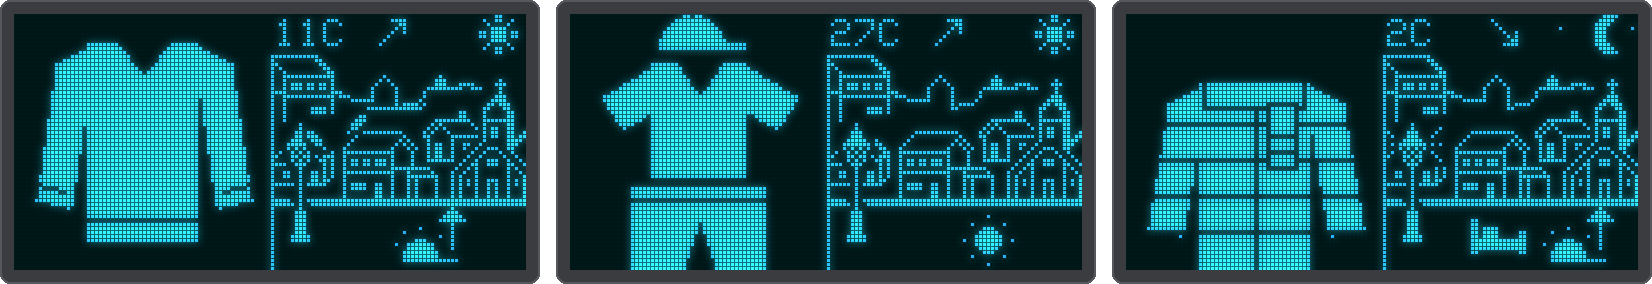
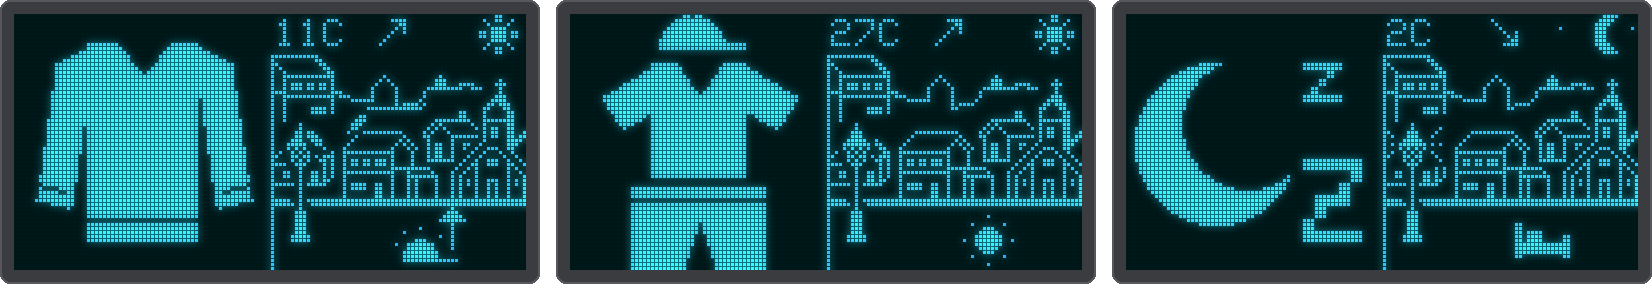
Kids village: what to wear right now, and sleeping at night
The village showed the outfit for the whole current part of the day (the
warmest of the afternoon, the coldest of the morning) next to the
temperature of now, so the picture and the number could disagree. It now
dresses for now: the current temperature, and the weather of this hour and
the next two, so rain on its way already gives the rain coat.

From 22:00 to 07:00 the left side shows a moon and a sleeping Z instead of
tomorrow morning's outfit, with a bed on the street. The clothes screen
still plans ahead per part of the day.

Claude-Session: https://claude.ai/code/session_01BgTn1WcpSUXFywgbLdTvzG

Changed region(s): [[0.6792, 0.1972, 0.8335, 0.9577], [0.8644, 0.7324, 0.9879, 0.9296]]

diff --git a/firmware/src/main.cpp b/firmware/src/main.cpp
@@ -464,16 +464,13 @@ static KidsCountdown kidsCountdownNow() {
 }
 
 /**
- * Kids screens: the next parts of the day (morning, afternoon, dinner and maybe the night; at most `max`, the
- * current one first) with their outlook. Returns how many.
+ * Kids screens: forecast hours from the current one on (at most 24), the current hour with the conditions of
+ * now, and their local hours. Returns how many.
  */
-static size_t kidsColumns(KidsColumn* cols, KidsPart* parts, size_t max, bool nightColumn) {
-    // Forecast hours from the current one on; the current hour uses what is measured now
+static size_t kidsHours(KidsHour* hours, int* localHours) {
     const HourSlice* slices = nullptr;
     time_t firstEpoch = 0;
     size_t n = getUpcomingHours(slices, firstEpoch);
-    KidsHour hours[24];
-    int localHours[24];
     size_t count = 0;
     for (; count < n && count < 24; count++) {
         const HourSlice& s = slices[count];
@@ -486,7 +483,17 @@ static size_t kidsColumns(KidsColumn* cols, KidsPart* parts, size_t max, bool ni
         WeatherData w = getCurrentWeather();
         hours[0] = KidsHour{ w.tempC, w.precipMm, w.gustKmh, w.code, state.isNight, true, lightOf(time(nullptr)) };
     }
+    return count;
+}
 
+/**
+ * Kids screens: the next parts of the day (morning, afternoon, dinner and maybe the night; at most `max`, the
+ * current one first) with their outlook. Returns how many.
+ */
+static size_t kidsColumns(KidsColumn* cols, KidsPart* parts, size_t max, bool nightColumn) {
+    KidsHour hours[24];
+    int localHours[24];
+    size_t count = kidsHours(hours, localHours);
     size_t np = kidsDayParts(localHours, count, parts, max, kidsDinnerHour, nightColumn);
     for (size_t i = 0; i < np; i++) {
         // One number per part, shown on the weather screen and the one the outfit goes by
@@ -512,17 +519,20 @@ void renderKids(bool weather) {
 }
 
 /**
- * Kids home screen: the outfit for now (the first column of the clothes screen) next to the village of the ride
- * screen, with its sun or moon, rain, snow, gusts and leaves
+ * Kids home screen: what to wear right now (at night: sleeping) next to the village of the ride screen, with
+ * its sun or moon, rain, snow, gusts and leaves
  */
 void renderKidsVillage() {
-    KidsPart part;
-    KidsColumn col = {};
-    bool any = kidsColumns(&col, &part, 1, false) > 0;   // the outfit to wear: never the night
+    KidsHour hours[24];
+    int localHours[24];
+    size_t count = kidsHours(hours, localHours);
+    KidsOutlook o = kidsNowOutlook(hours, count, kidsLimits);
+    KidsColumn col = { count ? partOfDay(localHours[0], kidsDinnerHour) : KIDS_PART_MORNING, o.valid, o.outfit,
+                       o.weather, o.light, kidsShownTemp((float)o.tempC) };
     WeatherData weather = getCurrentWeather();
     char tempStr[8];
     snprintf(tempStr, sizeof(tempStr), "%d%c", kidsShownTemp(weather.tempC), weatherUnits == "imperial" ? 'F' : 'C');
-    renderKidsVillageView(display, col, any, any && part.afterSleep, state.isNight, weather.condition,
+    renderKidsVillageView(display, col, count > 0, state.isNight, weather.condition,
                           weather.condition == WEATHER_RAIN ? 2 : weather.condition == WEATHER_SNOW ? 1 : 0,
                           (int)weather.windKmh, tempStr, weather.trend);
 }

diff --git a/firmware/src/display.cpp b/firmware/src/display.cpp
@@ -1099,14 +1099,15 @@ static void drawBed(Adafruit_SSD1306 &d, int bx, int by) {
     d.fillRect(bx + 3, by, 4, 3, SSD1306_WHITE);        // pillow
 }
 
-// The night column of the clothes screen: no outfit, the moon over a sleeping "z z"
-static void drawSleeping(Adafruit_SSD1306 &d, int cx) {
-    drawSmallMoon(d, cx - 4, 30, 10);
-    d.setTextSize(1);
-    d.setCursor(cx + 6, 22);
+// The night: no outfit, the moon next to a sleeping "z Z" (the clothes screen's column, or big: the village)
+static void drawSleeping(Adafruit_SSD1306 &d, int cx, bool big = false) {
+    int k = big ? 2 : 1;
+    drawSmallMoon(d, big ? cx - 10 : cx - 4, big ? 32 : 30, 10 * k);
+    d.setTextSize(k);
+    d.setCursor(cx + 6 * k, big ? 8 : 22);
     d.print('z');
-    d.setTextSize(2);
-    d.setCursor(cx + 9, 36);
+    d.setTextSize(k + 1);
+    d.setCursor(cx + 9 * k - (big ? 6 : 0), big ? 36 : 36);
     d.print('Z');
 }
 
@@ -1340,21 +1341,16 @@ void renderReportView(Adafruit_SSD1306 &d, const char (*lines)[REPORT_COLS + 1],
     d.cp437(false);
 }
 
-void renderKidsVillageView(Adafruit_SSD1306 &d, const KidsColumn &now, bool hasOutfit, bool afterSleep, bool isNight,
+void renderKidsVillageView(Adafruit_SSD1306 &d, const KidsColumn &now, bool hasOutfit, bool isNight,
                            int weatherCondition, int intensity, int windSpeed, const char *tempStr, char trendArrow) {
     d.clearDisplay();
-    if (hasOutfit && now.valid) drawOutfit(d, 4, now.outfit);   // the outfits are 56x64: the whole left half
+    if (hasOutfit && now.part == KIDS_PART_NIGHT) drawSleeping(d, 32, true);   // bedtime: nothing to wear
+    else if (hasOutfit && now.valid) drawOutfit(d, 4, now.outfit);   // the outfits are 56x64: the whole left half
     d.drawLine(64, 0, 64, 63, SSD1306_WHITE);
     renderSkylineCard(d, isNight, weatherCondition, intensity, windSpeed, tempStr, trendArrow);
-    // On the street, right of the lamp: the part of the day the outfit is for, after a bed when a night
-    // comes first (in the evening it is tomorrow morning's outfit)
+    // On the street, right of the lamp: the part of the day it is now (the night: a bed)
     if (!hasOutfit) return;
-    if (afterSleep) {
-        drawBed(d, 86, 53);
-        drawPartSymbol(d, 113, now.part, 56);
-    } else {
-        drawPartSymbol(d, 104, now.part, 56);
-    }
+    drawPartSymbol(d, 104, now.part, 56);
 }
 
 bool renderReportBlowFrame(Adafruit_SSD1306 &d, const char (*lines)[REPORT_COLS + 1], size_t count, int frame,

diff --git a/tools/screenshots_host/screens.cpp b/tools/screenshots_host/screens.cpp
@@ -167,14 +167,20 @@ struct VillageScene {
 };
 
 static void village(const VillageScene& s, int windFrames) {
-    KidsPart part;
-    KidsColumn col = {};
-    bool any = columns(s.day, &col, &part, 1) > 0;
+    KidsHour hours[36];
+    for (size_t i = 0; i < s.day.count; i++) {
+        const Hour& x = s.day.hours[i];
+        int h = (s.day.now + (int)i) % 24;
+        hours[i] = KidsHour{ x.t, x.rainMm, x.gust, x.code, h < s.day.sunrise || h >= s.day.sunset, true, KIDS_LIGHT_DAY };
+    }
+    KidsOutlook o = kidsNowOutlook(hours, s.day.count, LIMITS);
+    KidsColumn col = { partOfDay(s.day.now, KIDS_DINNER_HOUR), o.valid, o.outfit, o.weather, o.light, o.tempC };
+    bool any = s.day.count > 0;
     initWindAnimation(WIND_AREA_RIDE);
     hostSeed(5);
     bool gusts = s.condition == WEATHER_WIND;
     for (int i = 0; i < windFrames; i++) updateWindAnimation(s.windKmh, gusts, true);
-    renderKidsVillageView(d, col, any, any && part.afterSleep, s.night, s.condition, 0, s.windKmh, s.temp, s.trend);
+    renderKidsVillageView(d, col, any, s.night, s.condition, 0, s.windKmh, s.temp, s.trend);
 }
 
 static Hour windyAutumnMorning(int h) { return Hour{ h < 12 ? 9.0f + (h - 8) : 14.0f, 0, 40, 2 }; }
@@ -185,7 +191,7 @@ static void villages() {
     VillageScene scenes[3] = {
         { makeDay(8, 7, 19, windyAutumnMorning), false, WEATHER_WIND, 38, "11C", 'u' },
         { makeDay(14, 6, 21, hotAfternoon), false, WEATHER_CLEAR, 10, "27C", 'u' },
-        { makeDay(22, 8, 17, coldEvening), true, WEATHER_CLEAR, 8, "2C", 'd' },   // after 22:00: tomorrow morning
+        { makeDay(22, 8, 17, coldEvening), true, WEATHER_CLEAR, 8, "2C", 'd' },   // after 22:00: sleeping
     };
     for (int i = 0; i < 3; i++) {
         village(scenes[i], i == 0 ? 10 : 0);

diff --git a/test/test_logic/test_logic.cpp b/test/test_logic/test_logic.cpp
@@ -410,6 +410,29 @@ void test_kids_part_temperature() {
     TEST_ASSERT_FALSE(kidsPartOutlook(gaps, KidsPart{ KIDS_PART_MORNING, 0, 3, false, false }, K).valid);
 }
 
+// The village: the temperature of now, and rain on its way
+void test_kids_now_outlook() {
+    // Noon, 18 now and 27 this afternoon: a t-shirt now, not the shorts of the afternoon
+    KidsHour h[5] = { hr(18, 0, 1), hr(22, 0, 1), hr(25, 0, 1), hr(27, 0, 1), hr(27, 0, 1) };
+    KidsOutlook o = kidsNowOutlook(h, 5, K);
+    TEST_ASSERT_TRUE(o.valid);
+    TEST_ASSERT_EQUAL(18, o.tempC);
+    TEST_ASSERT_EQUAL(OUTFIT_MILD, o.outfit);
+
+    // Rain within the next two hours: the rain coat now; rain later does not count
+    h[2] = hr(17, 1.0f, 61);
+    TEST_ASSERT_EQUAL(OUTFIT_RAIN, kidsNowOutlook(h, 5, K).outfit);
+    h[2] = hr(25, 0, 1);
+    h[3] = hr(17, 1.0f, 61);
+    TEST_ASSERT_EQUAL(OUTFIT_MILD, kidsNowOutlook(h, 5, K).outfit);
+
+    // Fewer hours than the window, and none at all
+    TEST_ASSERT_EQUAL(18, kidsNowOutlook(h, 1, K).tempC);
+    TEST_ASSERT_FALSE(kidsNowOutlook(h, 0, K).valid);
+    h[0].valid = false;
+    TEST_ASSERT_FALSE(kidsNowOutlook(h, 5, K).valid);
+}
+
 void test_part_of_day() {
     TEST_ASSERT_EQUAL(KIDS_PART_NIGHT, partOfDay(6, 18));
     TEST_ASSERT_EQUAL(KIDS_PART_MORNING, partOfDay(7, 18));
@@ -895,6 +918,7 @@ int main(int, char**) {
     RUN_TEST(test_kids_window);
     RUN_TEST(test_kids_window_highest_temperature);
     RUN_TEST(test_kids_part_temperature);
+    RUN_TEST(test_kids_now_outlook);
     RUN_TEST(test_part_of_day);
     RUN_TEST(test_light_at);
     RUN_TEST(test_dinner_light);

diff --git a/firmware/include/display.h b/firmware/include/display.h
@@ -171,9 +171,9 @@ void renderKidsCountdown(Adafruit_SSD1306 &display, const KidsCountdown &c, unsi
 // about 65 km/h gusts (faster above). Returns false once everything has left the screen.
 bool renderReportBlowFrame(Adafruit_SSD1306 &display, const char (*lines)[REPORT_COLS + 1], size_t count, int frame,
                            float strength);
-// Kids home screen: the outfit of `now` (the first part of the day on the clothes screen) on the left, the
-// village of the ride screen on the right, and on its street the part of the day (after a bed: tomorrow)
-void renderKidsVillageView(Adafruit_SSD1306 &display, const KidsColumn &now, bool hasOutfit, bool afterSleep,
+// Kids home screen: what to wear right now (`now`, see kidsNowOutlook; at night a sleeping moon) on the left,
+// the village of the ride screen on the right, and on its street the current part of the day
+void renderKidsVillageView(Adafruit_SSD1306 &display, const KidsColumn &now, bool hasOutfit,
                            bool isNight, int weatherCondition, int intensity, int windSpeed, const char *tempStr,
                            char trendArrow);
 // Weather report: lines of text (REPORT_COLS characters at most, REPORT_DEGREE for the degree sign), centred

diff --git a/firmware/lib/motologic/motologic.cpp b/firmware/lib/motologic/motologic.cpp
@@ -215,6 +215,19 @@ KidsOutlook kidsPartOutlook(const KidsHour* hours, const KidsPart& part, const K
     return o;
 }
 
+KidsOutlook kidsNowOutlook(const KidsHour* hours, size_t count, const KidsLimits& l) {
+    KidsOutlook o = kidsWindowOutlook(hours, 0, count < KIDS_NOW_HOURS ? count : KIDS_NOW_HOURS, l);
+    if (count == 0 || !hours[0].valid || isnan(hours[0].tempC)) {
+        o.valid = false;
+        return o;
+    }
+    o.night = hours[0].night;
+    o.light = hours[0].light;
+    o.tempC = (int)lroundf(hours[0].tempC);
+    o.outfit = outfitFor(hours[0].tempC, o.weather, o.night, l);
+    return o;
+}
+
 int partOfDay(int localHour, int dinnerHour) {
     if (dinnerHour < KIDS_DINNER_MIN_HR || dinnerHour > KIDS_DINNER_MAX_HR) dinnerHour = KIDS_EVENING_FROM_HR;
     if (localHour >= KIDS_MORNING_FROM_HR && localHour < KIDS_AFTERNOON_FROM_HR) return KIDS_PART_MORNING;

diff --git a/firmware/lib/motologic/motologic.h b/firmware/lib/motologic/motologic.h
@@ -180,6 +180,12 @@ size_t kidsDayParts(const int* localHours, size_t count, KidsPart* out, size_t m
 // number. Dinner takes its light from that same hour, the night always has the moon.
 KidsOutlook kidsPartOutlook(const KidsHour* hours, const KidsPart& part, const KidsLimits& l);
 
+// The village: what to wear right now. The outfit goes by the current temperature (tempC, the number the
+// village shows) and the weather of the current hour and the next ones (KIDS_NOW_HOURS in all), so rain on
+// its way already gives the rain coat. Not valid without the current hour.
+#define KIDS_NOW_HOURS 3
+KidsOutlook kidsNowOutlook(const KidsHour* hours, size_t count, const KidsLimits& l);
+
 // Kids variant: countdowns to a birthday or a holiday, counted in sleeps (nights until the day)
 #define KIDS_EVENT_BIRTHDAY     0
 #define KIDS_EVENT_HALLOWEEN    1   // 31 October

diff --git a/docs/kids.md b/docs/kids.md
@@ -10,13 +10,17 @@ near, the countdown comes after the clothes.
 
 ## Village
 
-On the left the outfit for now, big; on the right the animated village of the [ride screen](rider.md) with the
-temperature, the sun or the moon, rain, snow, gusts and autumn leaves. On the street a small picture says
-which part of the day the outfit is for. From 22:00 (bedtime) until the morning it is tomorrow morning's
-outfit, with a bed in front of it: what to put out before going to sleep. It is the same outfit as the first
-one on the clothes screen.
+On the left what to wear **right now**, big; on the right the animated village of the [ride screen](rider.md)
+with the temperature, the sun or the moon, rain, snow, gusts and autumn leaves. The outfit goes by the
+temperature the village shows, so the picture and the number always match, and by the weather of this hour and
+the next two: rain on its way already gives the rain coat. On the street a small picture says which part of the
+day it is.
 
-![Village screens: an autumn morning with a sweater; a hot afternoon with a sun cap, t-shirt and shorts; a cold night with, after the bed, the winter coat and scarf for tomorrow morning](images/kids-village.png){ .center }
+From 22:00 (bedtime) until 07:00 there is nothing to wear: the left side shows a moon and a sleeping Z, with a
+bed on the street. Tomorrow morning's outfit is on the clothes screen. That screen plans ahead per part of the
+day, so in the afternoon its first column can differ from the village (the warmest of the afternoon, not now).
+
+![Village screens: an autumn morning with a sweater; a hot afternoon with a sun cap, t-shirt and shorts; a cold night with a moon and a sleeping Z](images/kids-village.png){ .center }
 
 ## The day in three parts
 
